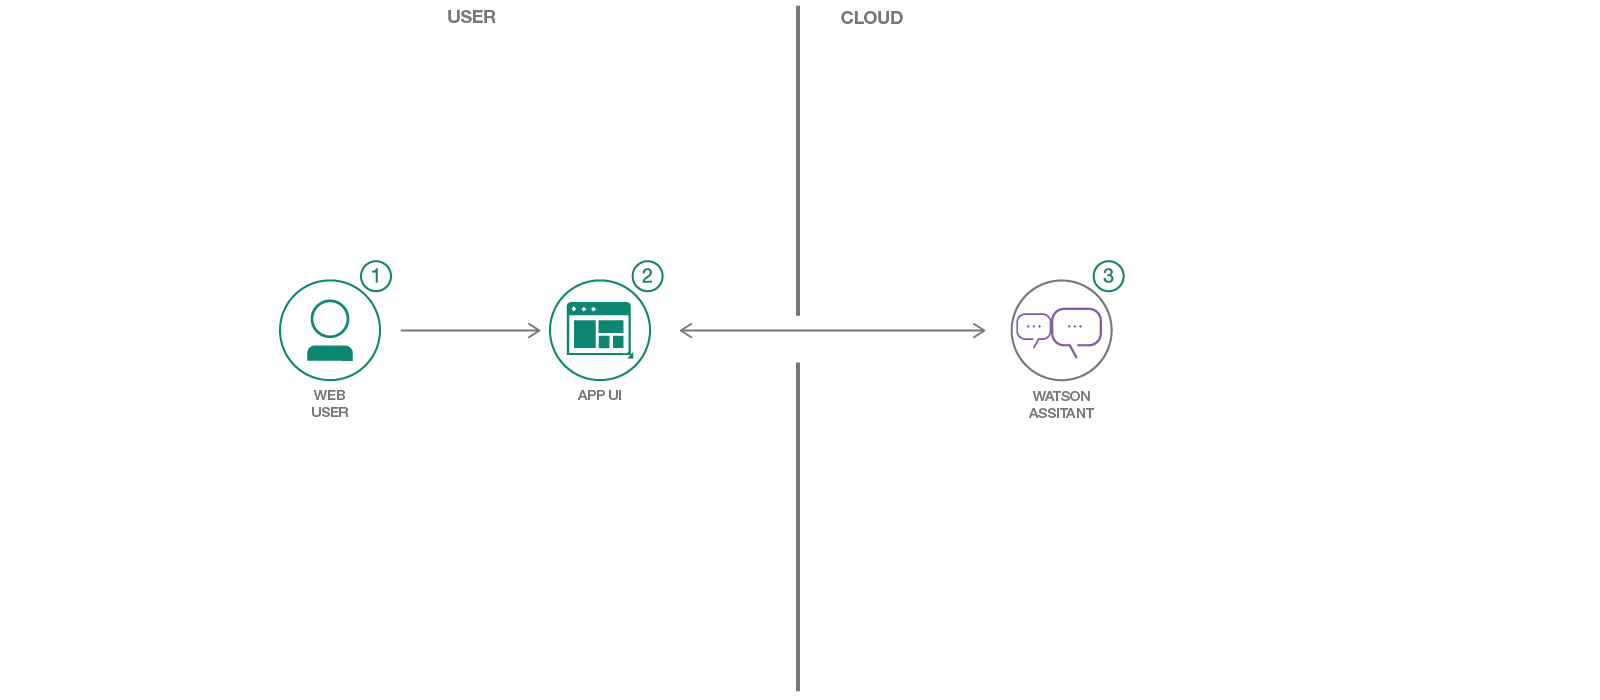
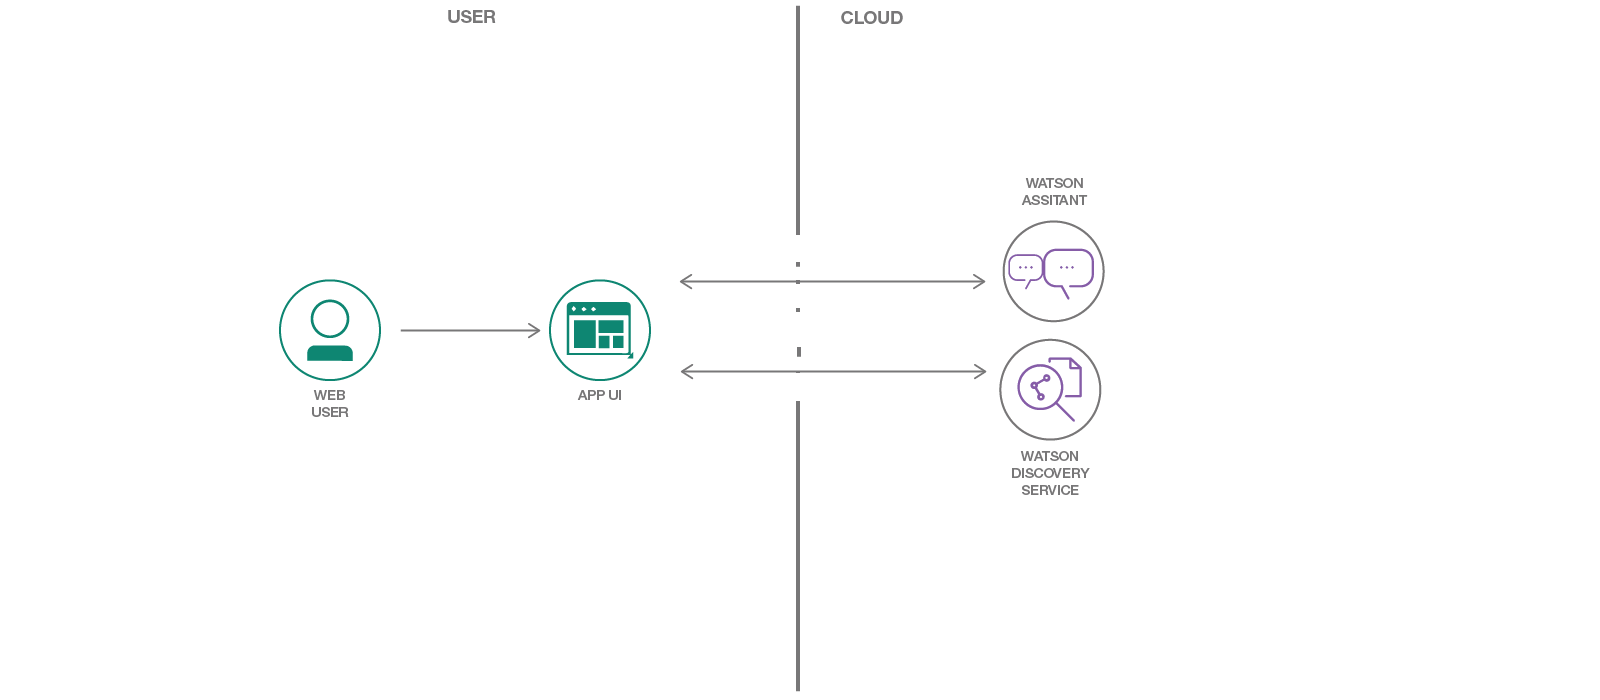
Fixed app.js to account for output.text being in generic array now. Finished README updates

Changed region(s): [[0.375, 0.33, 0.7188, 0.72], [0.625, 0.24, 0.6875, 0.3], [0.2188, 0.36, 0.25, 0.42]]

diff --git a/app.js b/app.js
@@ -36,6 +36,10 @@ var discovery = new DiscoveryV1({
   version: '2018-10-15'
 });
 
+var call_discovery_flag_name = 'call_discovery';
+var discovery_environment_id = process.env.DISCOVERY_ENVIRONMENT_ID;
+var discovery_collection_id = process.env.DISCOVERY_COLLECTION_ID;
+
 // Endpoint to be call from the client side
 app.post('/api/message', function (req, res) {
   var workspace = process.env.WORKSPACE_ID || '<workspace-id>';
@@ -53,18 +57,6 @@ app.post('/api/message', function (req, res) {
     alternate_intents: true
   };
 
-  var call_discovery_flag_name = 'call_discovery';
-  var discovery_environment_id = process.env.DISCOVERY_ENVIRONMENT_ID || '<discovery-environment-id>';
-  var discovery_collection_id = process.env.DISCOVERY_COLLECTION_ID || '<discovery-collection-id>';
-  //var discovery_collection_ids = process.env.DISCOVERY_COLLECTION_IDS
-  //if (!discovery_environment_id || !discovery_collection_id) {
-  //  return res.json({
-  //    'output': {
-  //      'text': 'The app requires a DISCOVERY instance to be setup and documents ingest into a collection. Need to provide the environment id for the Discovery instance and the collection id which includes the corpus of documents.'
-  //    }
-  //  });
-  //}
-
   // Send the input to the assistant service
   assistant.message(payload, function (err, data) {
     if (err) {
@@ -73,74 +65,62 @@ app.post('/api/message', function (req, res) {
     //return res.json(updateMessage(payload, data));
 
     if (data.output && data.output.action) {
-      console.log('Have an action to call....')
       var outaction = JSON.stringify(data.output.action);
       if (outaction.indexOf(call_discovery_flag_name) > -1) {
-        console.log('call to discovery....')
+        if (!discovery_environment_id || !discovery_collection_id) {
+          console.log("Discovery call cannot be made without a collection id or environment id.");
+          return res.json(updateMessage(payload, data));
+        }
+        else {
+          var discovery_payload = {
+            environment_id: discovery_environment_id,
+            collection_id: discovery_collection_id,
+            //collection_ids: discovery_collection_ids,
+            natural_language_query: data.input.text,
+            passages: true,
+            count: 5
+          };
 
-        var user_input = data.input.text;
-        var discovery_payload = {
-          environment_id: discovery_environment_id,
-          collection_id: discovery_collection_id,
-          //collection_ids: discovery_collection_ids,
-          natural_language_query: user_input,
-          passages: true
-        };
+          //discovery.federatedQuery(discovery_payload, function (error, discovery_response) {
+          discovery.query(discovery_payload, function (error, discovery_response) {
+            if (error) {
+              console.log("There was a problem with the WDS call: " + error);
+              return res.status(error.code || 500).json(error);
+            }
 
-        console.log("------------------------------------------------------------------------------");
-        console.log(discovery_payload);
-        console.log("------------------------------------------------------------------------------");
+            var resp = data;
 
-        //discovery.federatedQuery(discovery_payload, function (error, discovery_response) {
-        discovery.query(discovery_payload, function (error, discovery_response) {
-          if (error) {
-            console.log("There was a problem with the wds call....")
-            return res.status(error.code || 500).json(error);
-          }
-          //Capture original conversation message to add discovery responses.
-          var resp = data;
+            // In the following option, we return top 3 passages instead of complete documents
+            var numResults = discovery_response.passages.length;
+            //var numResults = discovery_response.results.length;
+            console.log("Number of responses - " + numResults);
+            var nResponses = 0;
+            if (numResults > 3) {
+              nResponses = 3;
+            } else {
+              nResponses = numResults;
+            }
 
-          // In the following option we return the top 3 documents from Discovery
-          /* var numResults = discovery_response.results.length;
-          console.log("Number of resutls - " + numResults);
-          var nResponses = 0;
-          if (numResults > 3) {
-            nResponses = 3;
-          } else {
-            nResponses = numResults;
-          }
-          resp.output.text = "";
-          for (var i = 0; i < nResponses; i++) {
-            console.log(i)
-            resp.output.text = resp.output.text + "["+discovery_response.results[i].extracted_metadata.filename+"]<br>" + discovery_response.results[i].text.substring(0,250) + "<br><hr><br><br>";
-          } */
+            resp.output.text = "";
+            for (var i = 0; i < nResponses; i++) {
+              resp.output.text = resp.output.text + "[" + discovery_response.passages[i].document_id + "]<br>" + discovery_response.passages[i].passage_text + "<br><br><hr><br><br>";
+            }
 
-          // In the following option, we return top 3 passages instead of complete documents
-          var numResults = discovery_response.passages.length;
-          console.log("number of responses - " + numResults);
-          var nResponses = 0;
-          if (numResults > 3) {
-            nResponses = 3;
-          } else {
-            nResponses = numResults;
-          }
-          resp.output.text = "";
-          for (var i = 0; i < nResponses; i++) {
-            resp.output.text = resp.output.text + "["+discovery_response.passages[i].document_id+"]<br>" + discovery_response.passages[i].passage_text + "<br><hr><br><br>";
-          } 
+            //New output uses a generic array to capture responses.
+            resp.output.generic.forEach(function (gen) {
+              if (gen.response_type === 'text') 
+                gen.text= resp.output.text;
+            });
 
-          console.log(resp);
-          console.log("here 1");
-
-          return res.json(updateMessage(payload, resp));
-
-        });
+            return res.json(updateMessage(payload, resp));
+          });
+        }
       } else {
-        console.log("here 2");
+        console.log("Output contains a non-discovery action.");
         return res.json(data);
       }
     } else {
-      console.log("here 3");
+      console.log("Output contains no action.");
       return res.json(data);
     }
   });

diff --git a/README.md b/README.md
@@ -1,10 +1,6 @@
 # Overview
 
-Watson Assistant service combines machine learning, natural language understanding, and integrated dialog tools to create conversation flows between your apps and your users. 
-
-#############################################################
-WATSON DISCOVERY DESCRIPTION..........
-#############################################################
+IBM Watson Assistant service combines machine learning, natural language understanding, and integrated dialog tools to create conversation flows between your apps and your users. In many cases, building a conversational or questions & answer solution can be accomplished primarily using Watson Assistant. However, there will be scenarios where a question & answer solution can not be modeled using only Watson Assistant, either because the domain is large or the questions are complex. In these scenarios, we can combine Watson Assistant and IBM Watson Disovery service to create a solution. Watson Discovery service enables developers to extract insights from large amounts of structured and unstructured data. Allowing users to unlock hidden value in data, to find answers, monitor trends and surface patterns. In these solutions, Watson Assistant provides reasoning strategies that focus on the language and context of the question to answer simple questions, while Watson Discovery provides reasoning strategies that focus on identifying the most appropriate answer for complex questions using the context of the entire corpus.
 
 In this lab, you will import and modify a Watson Assistant skill, Upload content to a Watson Discovery instance, and then integrate the two components using a node.js application.
 
@@ -226,33 +222,35 @@ We can run the node.js sample application locally to provide our interface that 
 
 ### Start the application
 
-1.  From a terminal in the `watson-assistant-lab` directory, start a developer container with the bash prompt and then change the directory in the container into the repository.
+1.  Open a terminal and navigate to the `assistant-with-discovery-lab` directory. **Optionally**, if you do not have node installed and/or prefer to use docker. Use the following command to start a developer container with the bash prompt and then change the directory in the container into the repository.
 
     ```bash
     docker run -it --rm -v "$(pwd):/repo" -p 3000:3000 timrodocker/mydev bash
     cd repo
     ```
 
-1.  Install the dependencies
+1.  Install the applications node dependencies by running the following command:
 
     ```
     npm install
     ```
 
-2.  Run the application
+1.  Start the application using the following command:
 
     ```
     npm start
     ```
 
-3.  View the application in a browser at `localhost:3000`
+1.  View the application in a browser at `localhost:3000` and interact with the chatbot.
+    ![Nodejs Application](readme_images/AppTest.png)  
+
 
 ### Running on IBM Cloud
 You could also deploy the application to to IBM Cloud as a Cloud Foundry Application
 
 1.  Using a text editor update the *manifest.yml* file. Change the **name** field to something unique. For example, `- name: my-app-name`.
 
-2.  Start the developer container and change into the respository folder:
+2.  Open a terminal and navigate to the `assistant-with-discovery-lab` directory. **Optionally**, if you do not have node installed and/or prefer to use docker. Use the following command to start a developer container with the bash prompt and then change the directory in the container into the repository.
 
     ```bash
     docker run -it --rm -v "$(pwd):/repo" -p 5000:5000 timrodocker/mydev bash
